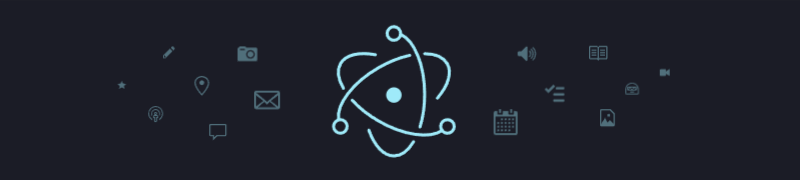
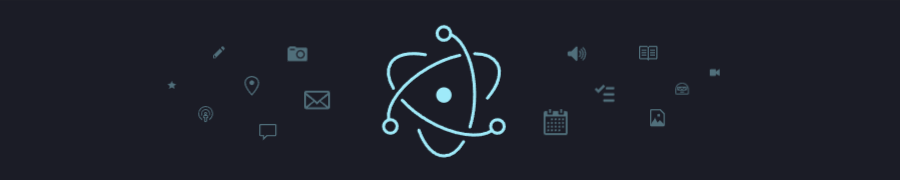
add links and fix image

diff --git a/docs/blog/posts/why-electron.md b/docs/blog/posts/why-electron.md
@@ -7,6 +7,9 @@ categories:
   - Devlog
 authors: 
   - Konstantinos
+links:
+  - Electron: https://www.electronjs.org/
+  - Tauri: http://v2.tauri.app/
 ---
 
 # Why Electron?
@@ -18,6 +21,8 @@ There's been significant criticism about the size and the memory footprint of
 is so much hate going towards this platform, that I feel the need to defend it, since I
 find it quite useful. I am not saying it’s the perfect solution for everything. Those are
 legitimate concerns, but as usual, it's all about trade-offs.
+
+<!-- more -->
 
 The first thing we need to answer though is not about Electron. It’s about web-based
 applications in general.
